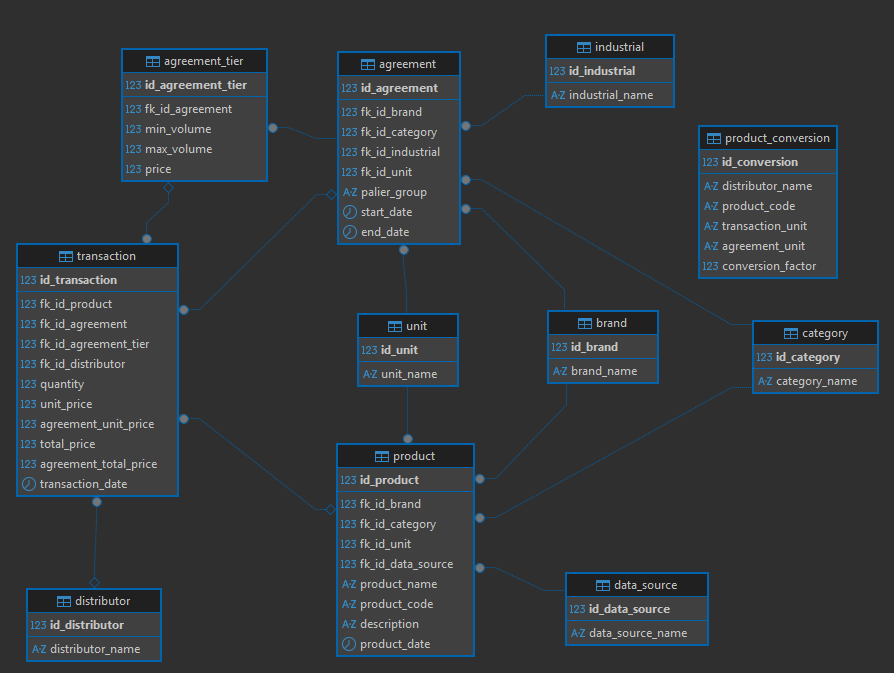
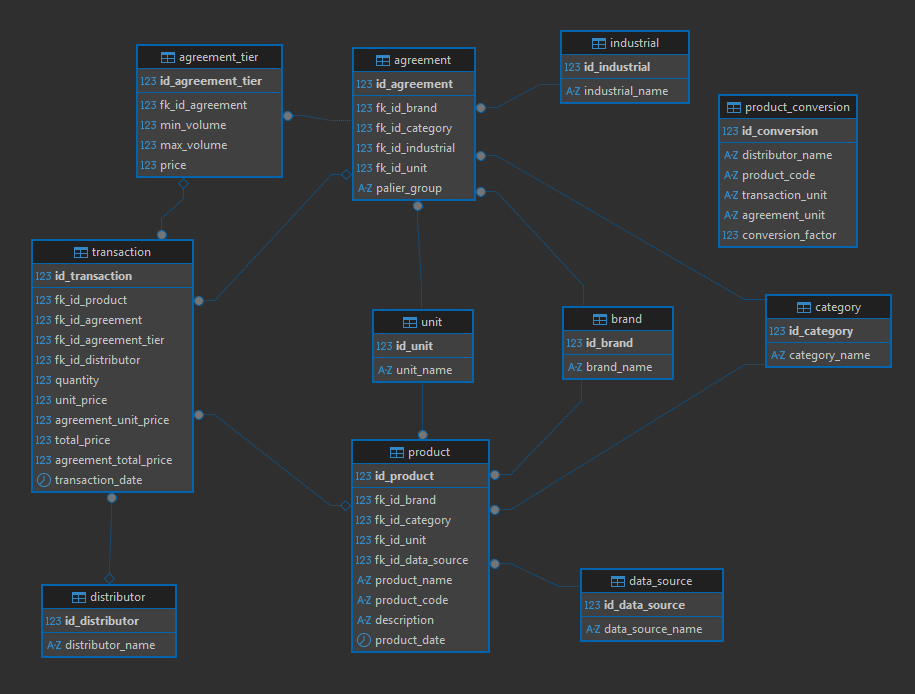
[DOC]: Documentation updated

diff --git a/documentation_folder/database_folder/data_model_documentation.md b/documentation_folder/database_folder/data_model_documentation.md
@@ -38,7 +38,7 @@ product_conversion
 |---|---|
 | Clés primaires | `id_<table>` |
 | Clés étrangères | `fk_id_<table_cible>` |
-| Suppressions | `ON DELETE CASCADE` sur toutes les FK |
+| Suppressions | `ON DELETE CASCADE` sur toutes les FK sauf `fk_id_agreement` dans `transaction` (`ON DELETE SET NULL`) |
 | Encodage | `utf8mb4` / `utf8mb4_general_ci` |
 | Moteur | `InnoDB` (support des FK et transactions ACID) |
 
@@ -142,7 +142,9 @@ Table de correspondance entre l'unité de transaction (UF) et l'unité de l'acco
 ---
 
 ### `agreement`
-> **Choix de conception** : Entegra étant toujours le signataire, elle n'est pas stockée comme FK — ce serait une valeur constante sans intérêt analytique. Un accord est la table de jonction implicite entre `brand`, `category` et `industrial`. Le champ `palier_group` permet de regrouper plusieurs accords (marques/catégories différentes) sous un même compteur de volume pour le calcul du palier — par exemple, tous les accords Knorr partagent le même `palier_group` et leurs volumes sont additionnés pour déterminer le palier commun.
+Accord de reversement entre un industriel et **Entegra**, pour une marque et une catégorie données.
+
+> **Choix de conception** : Entegra étant toujours le signataire, elle n'est pas stockée comme FK — ce serait une valeur constante sans intérêt analytique. Un accord est la table de jonction implicite entre `brand`, `category` et `industrial`. Le champ `palier_group` permet de regrouper plusieurs accords (marques/catégories différentes) sous un même compteur de volume pour le calcul du palier — par exemple, tous les accords Knorr partagent le même `palier_group` et leurs volumes sont additionnés pour déterminer le palier commun. Les accords sont supprimés et réinsérés intégralement à chaque import — il n'y a pas d'historique de versions.
 
 | Colonne | Type | Contrainte | Description |
 |---|---|---|---|
@@ -152,8 +154,6 @@ Table de correspondance entre l'unité de transaction (UF) et l'unité de l'acco
 | `fk_id_industrial` | INT | FK → `industrial`, NOT NULL | Industriel signataire |
 | `fk_id_unit` | INT | FK → `unit`, NOT NULL | Unité dans laquelle les paliers sont exprimés |
 | `palier_group` | VARCHAR(255) | NULL | Groupe de palier partagé entre plusieurs accords (ex : `knorr`, `dressing+maizena+tvb`) |
-| `start_date` | DATE | NULL | Date de début de l'accord |
-| `end_date` | DATE | NULL | Date de fin de l'accord |
 
 ---
 
@@ -184,7 +184,7 @@ Paliers de reversement d'un accord. Chaque ligne définit une tranche de volume 
 Vente effective d'un produit, dans le cadre d'un accord commercial.
 
 > **Choix de conception** :
-> - `fk_id_agreement` permet de remonter à l'accord applicable au moment de la vente.
+> - `fk_id_agreement` permet de remonter à l'accord applicable. Défini en `ON DELETE SET NULL` : si les accords sont réimportés (suppression totale), les transactions conservent leurs données et `fk_id_agreement` passe à `NULL` en attente d'une rerésolution via `resolve_agreements_method()`.
 > - `fk_id_agreement_tier` identifie le palier précis qui a été atteint lors du calcul.
 > - `fk_id_distributor` identifie quel est le distributeur.
 > - `unit_price` et `total_price` sont les prix de vente réel au moment de la transaction. Ils ne doivent pas être recalculés dynamiquement.
@@ -194,7 +194,7 @@ Vente effective d'un produit, dans le cadre d'un accord commercial.
 |---|---|---|---|
 | `id_transaction` | INT | PK, AUTO_INCREMENT | Identifiant unique |
 | `fk_id_product` | INT | FK → `product`, NULL | Produit vendu |
-| `fk_id_agreement` | INT | FK → `agreement`, NULL | Accord applicable (NULL si produit non mappé) |
+| `fk_id_agreement` | INT | FK → `agreement`, NULL, ON DELETE SET NULL | Accord applicable (NULL si produit non mappé ou accords réimportés) |
 | `fk_id_agreement_tier` | INT | FK → `agreement_tier`, NULL | Palier atteint lors du calcul (NULL avant calcul) |
 | `fk_id_distributor` | INT | FK → `distributor`, NULL | Distributeur |
 | `quantity` | INT | NOT NULL | Quantité vendue en colis |
